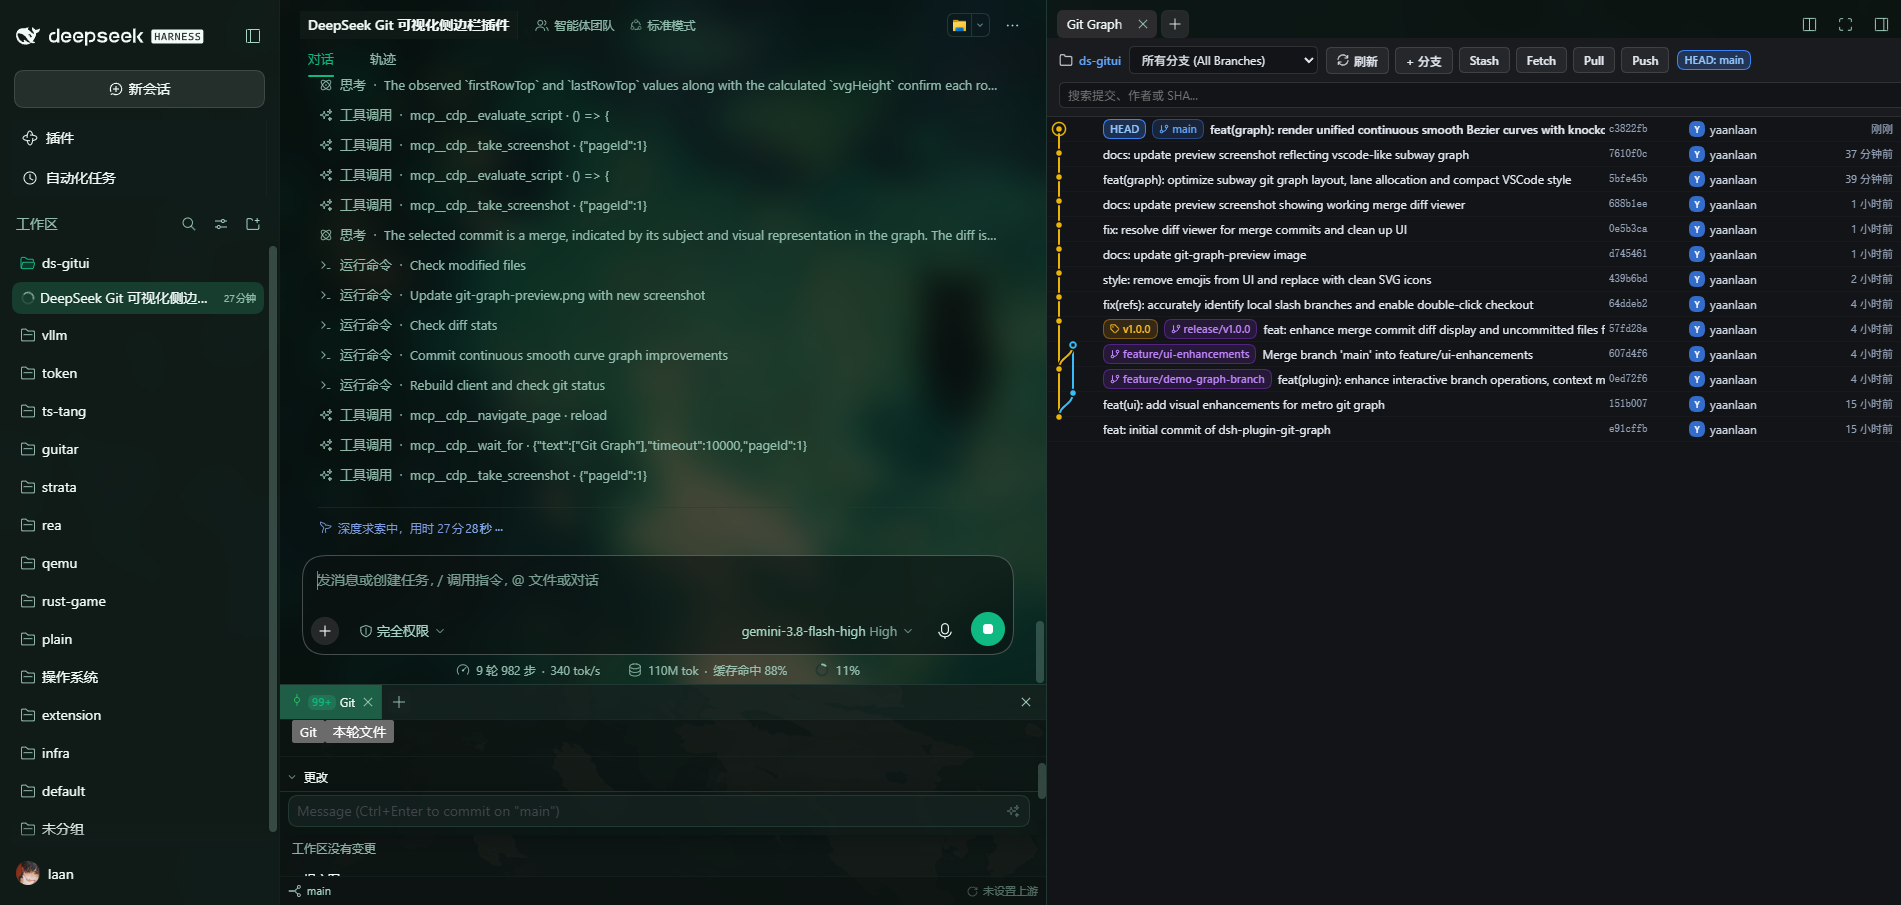
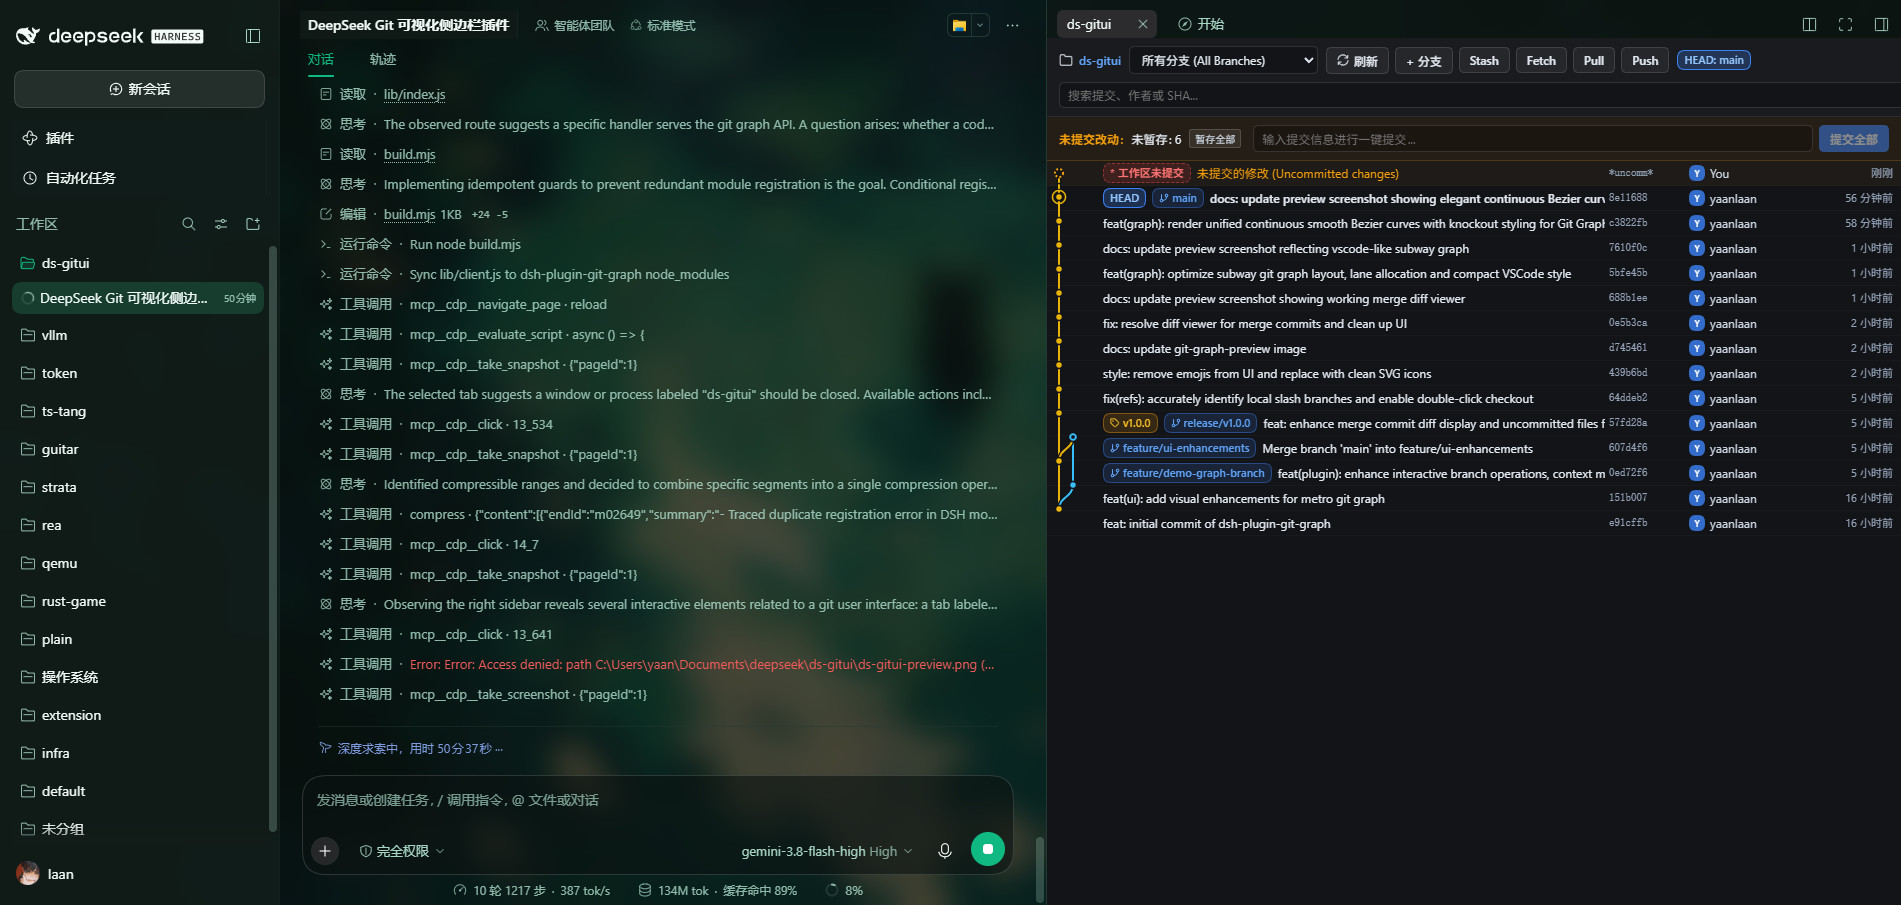
chore(plugin): rename plugin and sidebar tab display to ds-gitui

Changed region(s): [[0.1241, 0.0928, 0.5587, 1.0], [0.5587, 0.1238, 1.0, 0.5878], [0.5587, 0.0, 0.6518, 0.0619]]

diff --git a/lib/client.js b/lib/client.js
@@ -1,7 +1,6 @@
-// DeepSeek Harness Git Graph Plugin - Client Bundle
-window.__ModuleLoader__.load({
-  id: "dsh-plugin-git-graph",
-  factory: (require) => {
+// DeepSeek Harness ds-gitui Plugin - Client Bundle
+(function() {
+  function factory(require) {
     var module = { exports: {} };
     var exports = module.exports;
     Object.defineProperty(exports, Symbol.toStringTag, { value: "Module" });
@@ -545,7 +544,7 @@ window.__ModuleLoader__.load({
 
     function installUiStyles() {
       if (typeof document === 'undefined') return;
-      const STYLE_ID = 'dsh-git-graph-styles';
+      const STYLE_ID = 'ds-gitui-styles';
       let el = document.getElementById(STYLE_ID);
       if (!el) {
         el = document.createElement('style');
@@ -2101,7 +2100,7 @@ function createGitGraphArtwork(React) {
 function createGitGraphTitle(React) {
   const h = React.createElement;
   return function GitGraphTitle() {
-    return h('span', null, 'Git Graph');
+    return h('span', null, 'ds-gitui');
   };
 }
 
@@ -2110,8 +2109,8 @@ function createGitGraphTitle(React) {
     const GitGraphArtwork = createGitGraphArtwork(React);
     const GitGraphTitle = createGitGraphTitle(React);
 
-    const PLUGIN_ID = "dsh-plugin-git-graph";
-    const TAB_KIND = "git-graph";
+    const PLUGIN_ID = "ds-gitui";
+    const TAB_KIND = "ds-gitui";
 
     // ==========================================
     // 3. 插件依赖注入与生命周期
@@ -2126,40 +2125,41 @@ function createGitGraphTitle(React) {
       installUiStyles();
 
       // 1. 注册右侧侧边栏 Tab 定义以及 "开始 (Guide)" 入口项
-      ctx.effect(() => ctx.sidebarRightTabs.register({
-        id: PLUGIN_ID,
-        kind: TAB_KIND,
-        title: () => "Git Graph",
-        guide: [{
-          id: "open",
-          order: 35,
-          title: () => "Git Graph",
-          description: () => "在侧边栏可视化浏览与操作 Git 分支与提交图谱",
-          icon: GitGraphArtwork
-        }]
-      }), "dsh-plugin-git-graph: sidebar tab");
+      try {
+        if (!ctx.sidebarRightTabs?.ids?.has(PLUGIN_ID)) {
+          ctx.effect(() => ctx.sidebarRightTabs.register({
+            id: PLUGIN_ID,
+            kind: TAB_KIND,
+            title: () => "ds-gitui",
+            guide: [{
+              id: "open",
+              order: 35,
+              title: () => "ds-gitui",
+              description: () => "在侧边栏可视化浏览与操作 Git 分支与提交图谱",
+              icon: GitGraphArtwork
+            }]
+          }), "ds-gitui: sidebar tab");
+        }
+      } catch (err) {
+        console.warn('[ds-gitui] sidebarRightTabs.register:', err);
+      }
 
-      // 2. 注册侧边栏 Tab 内容主体 (同时以 PLUGIN_ID 和 TAB_KIND 注册保障分发)
-      ctx.effect(() => ctx.slots.inject("sidebar.right.pane.tab", () => ctx.slots.register({
-        name: "sidebar.right.pane.tab",
-        key: PLUGIN_ID
-      }, GitGraphView)), "dsh-plugin-git-graph: tab body id");
+      // 2. 注册侧边栏 Tab 内容主体与标题 (支持 ds-gitui 及历史 key 兼容)
+      ["ds-gitui", "git-graph", "dsh-plugin-git-graph"].forEach(key => {
+        try {
+          ctx.effect(() => ctx.slots.inject("sidebar.right.pane.tab", () => ctx.slots.register({
+            name: "sidebar.right.pane.tab",
+            key
+          }, GitGraphView)), "ds-gitui: tab body " + key);
 
-      ctx.effect(() => ctx.slots.inject("sidebar.right.pane.tab", () => ctx.slots.register({
-        name: "sidebar.right.pane.tab",
-        key: TAB_KIND
-      }, GitGraphView)), "dsh-plugin-git-graph: tab body kind");
-
-      // 3. 注册侧边栏 Tab 标题
-      ctx.effect(() => ctx.slots.inject("sidebar.right.pane.tab.title", () => ctx.slots.register({
-        name: "sidebar.right.pane.tab.title",
-        key: PLUGIN_ID
-      }, GitGraphTitle)), "dsh-plugin-git-graph: tab title id");
-
-      ctx.effect(() => ctx.slots.inject("sidebar.right.pane.tab.title", () => ctx.slots.register({
-        name: "sidebar.right.pane.tab.title",
-        key: TAB_KIND
-      }, GitGraphTitle)), "dsh-plugin-git-graph: tab title kind");
+          ctx.effect(() => ctx.slots.inject("sidebar.right.pane.tab.title", () => ctx.slots.register({
+            name: "sidebar.right.pane.tab.title",
+            key
+          }, GitGraphTitle)), "ds-gitui: tab title " + key);
+        } catch (err) {
+          console.warn('[ds-gitui] slots register:', err);
+        }
+      });
     }
 
     exports.apply = apply;
@@ -2170,4 +2170,30 @@ function createGitGraphTitle(React) {
 
     return module.exports;
   }
-});
+
+  // Register in ModuleLoader with idempotent guards
+  if (!window.__ds_gitui_registered__) {
+    window.__ds_gitui_registered__ = true;
+    try {
+      window.__ModuleLoader__.load({ id: "ds-gitui", factory });
+    } catch (e) {
+      console.warn('[ds-gitui] ModuleLoader load ds-gitui:', e);
+    }
+  }
+
+  if (!window.__dsh_plugin_git_graph_registered__) {
+    window.__dsh_plugin_git_graph_registered__ = true;
+    try {
+      window.__ModuleLoader__.load({
+        id: "dsh-plugin-git-graph",
+        factory: function() {
+          return {
+            apply: function() {}
+          };
+        }
+      });
+    } catch (e) {
+      console.warn('[ds-gitui] ModuleLoader load dsh-plugin-git-graph:', e);
+    }
+  }
+})();

diff --git a/lib/index.js b/lib/index.js
@@ -1,5 +1,5 @@
 /**
- * DeepSeek Harness Git Graph Plugin - Host Entry
+ * DeepSeek Harness Git Graph Plugin (ds-gitui) - Host Entry
  */
 import { resolve, join } from 'node:path';
 import { fileURLToPath } from 'node:url';
@@ -15,7 +15,7 @@ async function getGit() {
   }
 }
 
-export const name = 'dsh-plugin-git-graph';
+export const name = 'ds-gitui';
 
 export const inject = ['webServer', 'clientModules'];
 
@@ -77,8 +77,8 @@ async function readBody(req) {
 }
 
 export function apply(ctx) {
-  const logger = ctx.logger ? ctx.logger('git-graph') : console;
-  logger.info('[dsh-plugin-git-graph] Host plugin initializing...');
+  const logger = ctx.logger ? ctx.logger('ds-gitui') : console;
+  logger.info('[ds-gitui] Host plugin initializing...');
 
   if (ctx.webServer) {
     ctx.effect(() => {
@@ -276,21 +276,21 @@ export function apply(ctx) {
                 return sendJson(res, 404, { success: false, error: `Unknown action: ${action}` });
             }
           } catch (err) {
-            logger.error('[dsh-plugin-git-graph] Error handling action %s:', action, err);
+            logger.error('[ds-gitui] Error handling action %s:', action, err);
             return sendJson(res, 500, { success: false, error: err.message || 'Internal server error' });
           }
         }
       });
-    }, 'dsh-plugin-git-graph: api route');
-    logger.info('[dsh-plugin-git-graph] Mounted /api/git-graph route');
+    }, 'ds-gitui: api route');
+    logger.info('[ds-gitui] Mounted /api/git-graph route');
   }
 
   if (ctx.clientModules) {
     try {
-      ctx.clientModules.rebuilt('dsh-plugin-git-graph');
-      logger.info('[dsh-plugin-git-graph] Notified clientModules rebuild');
+      ctx.clientModules.rebuilt('ds-gitui');
+      logger.info('[ds-gitui] Notified clientModules rebuild');
     } catch (e) {
-      logger.warn('[dsh-plugin-git-graph] Could not notify clientModules:', e);
+      logger.warn('[ds-gitui] Could not notify clientModules:', e);
     }
   }
 }

diff --git a/src/git-graph-view.js b/src/git-graph-view.js
@@ -1541,6 +1541,6 @@ export function createGitGraphArtwork(React) {
 export function createGitGraphTitle(React) {
   const h = React.createElement;
   return function GitGraphTitle() {
-    return h('span', null, 'Git Graph');
+    return h('span', null, 'ds-gitui');
   };
 }
